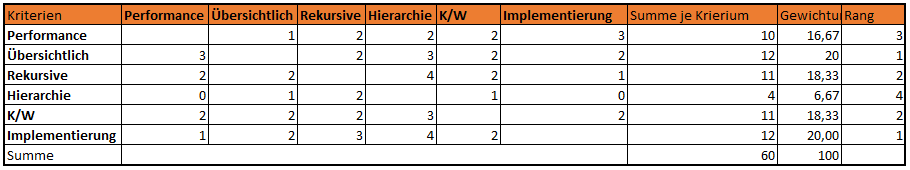
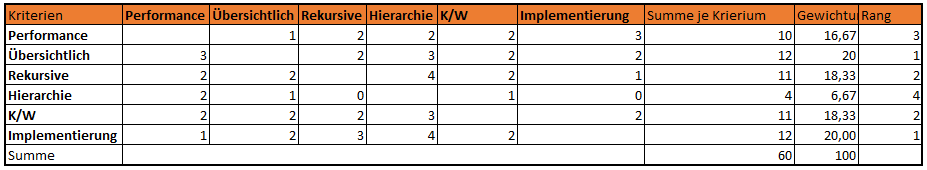
Ich kann nicht mehr

diff --git a/chapters/examples/chapter04.tex b/chapters/examples/chapter04.tex
@@ -159,6 +159,7 @@ Die Übersichtlichkeit dazu ist weniger wichtig.
 Die Performance und die Rekursion haben jeweils zwei Punkte bekommen, da eine performante Struktur keine rekursiven Beziehungen enthält.
 \ac{K/W} sowie Performance haben jeweils zwei Punkte bekommen.
 Dies liegt daran, dass neben der Performance die \ac{K/W} elementar sind, da eine Struktur, die sich kaum warten lässt, mehr Ressourcen in der Zukunft kosten wird.
+Dabei haben die Performance und Hierarchie jeweils zwei Punkte erhalten.
 Zwischen der Übersichtlichkeit und der Rekursion wurden der Rekursion drei Punkte gegeben und der Übersichtlichkeit nur einen, weil rekursive Strukturen unübersichtlicher sind und es daher wichtiger ist, dass es keine gibt.
 Übersichtlichkeit und Hierarchie haben beide zwei Punkte erhalten, da beide eine gleiche Rolle bei der Lesbarkeit der Struktur spielen.
 Übersichtlichkeit sowie Rekursion und Hierarchie bekommen einen Punkt im Vergleich zu \ac{K/W}, weil dieser Punkt langfristig eine wichtige Rolle spielt, und die anderen drei Punkte sollten keine Probleme sein, sofern sich an die Konventionen gehalten wird, damit die Struktur wartbar bleibt.
@@ -195,10 +196,10 @@ Das erste Konzept für die Struktur ist wie folgt aufgebaut.
 Wie man in der Grafik (\ref{fig:Teil}) aus dem zweiten Kapitel erkennen kann, gibt es bei der aktuellen Berechtigungsstruktur keine Struktur.
 Um dementsprechend die genannten Problem zu beheben, wurde die neue Struktur (\ref{fig:Struktur}) entwickelt.
 Um die \ac{K/W} zu verbessern, wurden die folgenden Konventionen für dieses Konzept entwickelt.
-Es it dabei anzumerken dabei ist, dass die Durchsetzung und Implementierung dieser Konventionen trotzdem keinen unerheblichen Aufwand darstellt.
+Es ist dabei anzumerken, dass die Durchsetzung und Implementierung dieser Konventionen trotzdem keinen unerheblichen Aufwand darstellt.
 \begin{itemize}
 	\item Profile enthalten nur noch Profile oder Berechtigungen.
-	\item Die Berechtigungsstruktur soll nur noch eine Hierarchietiefe von maximal vier haben.
+	\item Die Berechtigungsstruktur soll nur noch eine Hierarchietiefe von maximal vier Ebenen haben.
 	\item Die erste Hierarchiestufe enthält das Standardprofil, welches dem Nutzer gegeben wird.
 	\item Die zweite Hierarchiestufe enthält die jeweiligen Sammellese- und -schreibprofile, die jeweils in die Fachbereiche getrennt sind.
 	\item Die dritte Hierarchiestufe enthält die individuellen Lese- und Schreibprofile.
@@ -237,7 +238,7 @@ Dabei geht es darum, dass der Nutzer nur die Berechtigungen erhält, welche dies
 \end{figure}
 Das Bild (\ref{fig:AltBer}) zeigt eine bestehende Berechtigungsstruktur.
 (\ref{fig:NeuBer}) hingegen bildet die Struktur nach den neuen Konventionen dar.
-Diese beiden Bilder wurden den IT-Spezialisten gezeigt, die befragt wurden.
+Diese beiden Bilder wurden den befragten IT-Spezialisten gezeigt.
 Einheitlich haben alle befragten IT-Spezialisten angegeben, dass Sie die neue Struktur übersichtlicher finden und diese einfacher zu verstehen ist.
 Zudem wurde kann auch erkannt werden, dass die Hierarchie verringert wurde.
 \newline

diff --git a/frontbackmatter/AbstractDE.tex b/frontbackmatter/AbstractDE.tex
@@ -4,9 +4,6 @@
 \begin{otherlanguage}{ngerman}
 	\pdfbookmark[0]{Zusammenfassung}{Zusammenfassung}
 	\chapter*{Zusammenfassung}
-	\begin{itemize}
-          \item Ergebnisse: Was sind die Ergebnisse der Arbeit? Ein kurzer Überblick über die wichtigsten Ergebnisse als Teaser, um die Arbeit vollständig zu lesen.
-	\end{itemize}
 In der heutigen Welt wird für alles eine Berichtigung verlangt.
 Sei es das Anmelden vom Computer oder Handy bis zu Chipkarten, um in gewisse Gebäude reinzukommen.
 Dabei haben Mitarbeiter in Unternehmen spezifische Berechtigungen, um ihre Arbeit zu erfüllen.
